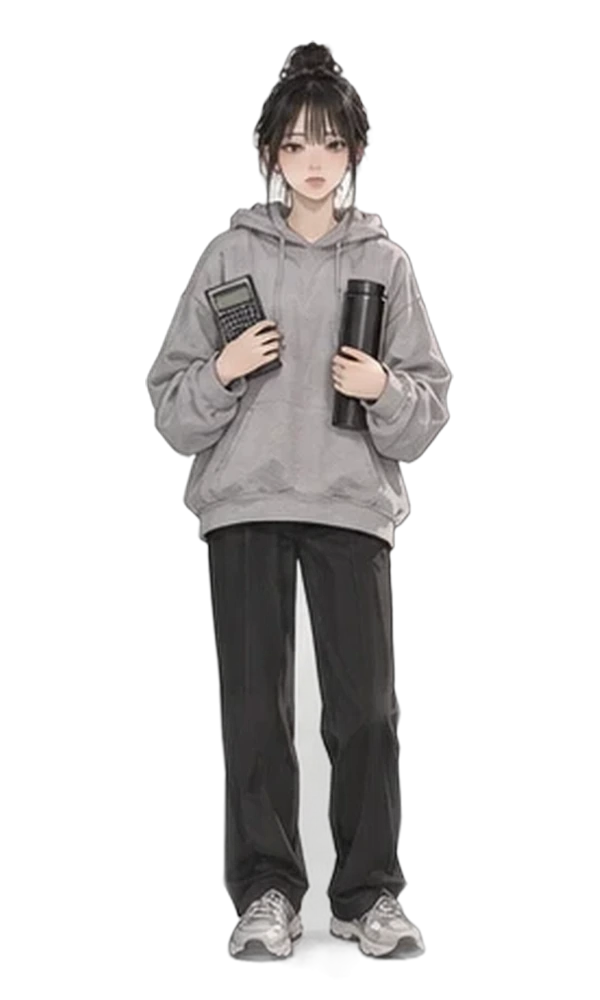
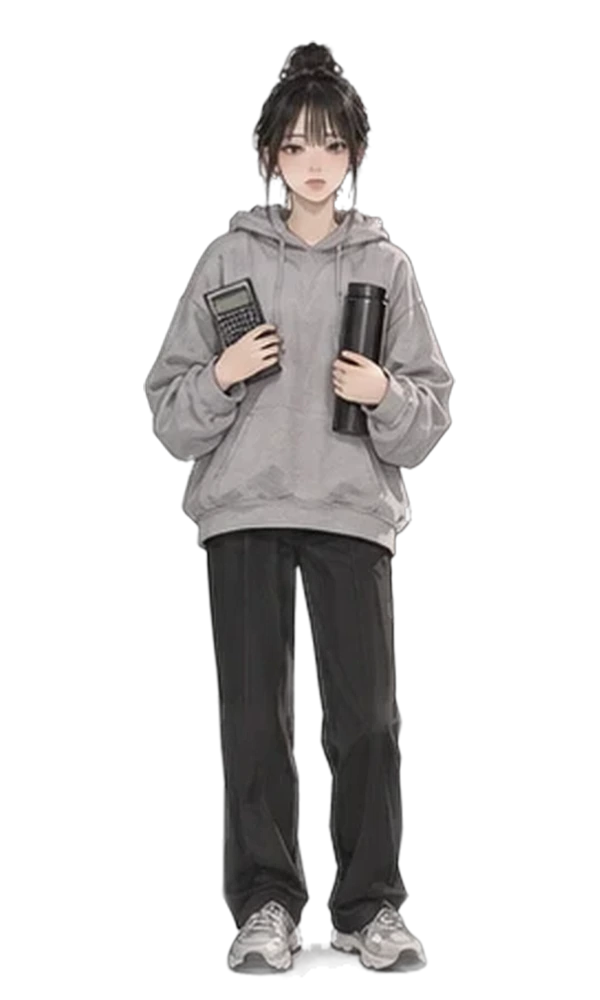
曾品妤對話立繪重切（BB-B D59 退件）：兩腿中間的灰底、耳朵高度的白邊、脖子兩側的白點拿掉（cut_reference_portraits.py 的 key_holes，只對 pinyu）；深色底＋紅底新舊對照
Claude-Session: https://claude.ai/code/session_01GV1WG3UeT2DhuDpxeWJsvD

diff --git a/tools/portraits/cut_reference_portraits.py b/tools/portraits/cut_reference_portraits.py
@@ -46,6 +46,37 @@ SRC = {
     'yule': ('R:yule.webp', (18, 368, 180, 810)),
 }
 CW, CH, TOP, FILL = 600, 1000, 0.04, 0.94
+HOLES = {'pinyu'}                                                     # BB-B 2026-10-16 D59 退件：曾品妤耳朵高度的白邊、兩腿中間的灰底
+
+
+def key_holes(c0, al, bgc, shoe=0.92):
+    """把「接近背景色的中性淺色」連成一片的地方挖掉（不管遮罩怎麼說）；旁邊 3 px 重算半透明：
+    中性的像素照亮度在「背景」和「附近最暗的人物顏色（褲子、頭髮）」之間的位置給 alpha（不然邊緣留一圈白、而且放大後鋸齒）；
+    有顏色的（臉、手、暖色皮膚）不動。鞋子（最下面 8%）有白色的部分，不碰。"""
+    d = np.abs(c0 - bgc).max(2); sat = c0.max(2) - c0.min(2); L = c0.mean(2); bL = float(bgc.mean()); H = c0.shape[0]
+    bgl = (d < 22) & (sat < 14) & (al > 0.02)
+    lab, n = ndimage.label(bgl); keep = np.zeros_like(bgl)
+    ys = np.nonzero(al > 0.5)[0]; foot = ys.max() if len(ys) else H; top = ys.min() if len(ys) else 0
+    for i, sl in enumerate(ndimage.find_objects(lab), 1):
+        if sl is None: continue
+        if int((lab[sl] == i).sum()) >= 6 and sl[0].start < top + shoe * (foot - top): keep |= lab == i
+    # 頭的高度（上面 17%，到下巴、帽兜以上）：髮絲和脖子之間的背景被皮膚染成偏暖的淺色（飽和度 13～25），第一輪抓不到——只拿「碰到已挖掉的洞或外面」的那幾塊
+    # （淺灰帽兜的亮面飽和度 ≤12，不算；不然帽兜的邊會被咬掉）
+    head = np.zeros_like(bgl); head[top:top + int(0.17 * (foot - top))] = True
+    warm = head & (L > 226) & (sat >= 13) & (sat < 26) & ~keep; out0 = keep | (al < 0.05)
+    wl, _ = ndimage.label(warm); touch = np.unique(wl[ndimage.binary_dilation(out0, iterations=1) & warm]); touch = touch[touch > 0]
+    keep = keep | np.isin(wl, touch)
+    near = ndimage.binary_dilation(keep, iterations=3) & ~keep & (sat < 20)
+    fgL = ndimage.minimum_filter(np.where(keep, 255.0, L), size=9)              # 附近最暗的人物顏色
+    a = np.clip((bL - L) / np.maximum(bL - fgL, 30.0), 0, 1)
+    out = np.where(keep, 0.0, al); out = np.where(near, np.minimum(out, a), out)
+    # 最後：頭的高度、貼著透明區 2 px 以內、又亮又沒顏色的零星像素（髮絲間殘留的白點）也拿掉；皮膚飽和度 ≥25，不受影響
+    # 脖子兩側（到 20%）的白點是被皮膚染成微暖的背景（R−B 8～26）；帽兜是中性灰（R−B < 8）、皮膚 R−B ≥ 30，都不受影響
+    rb = c0[..., 0] - c0[..., 2]; neck = np.zeros_like(bgl); neck[top:top + int(0.20 * (foot - top))] = True
+    edge = ndimage.binary_dilation(out < 0.1, iterations=2) & (out >= 0.1) & (L > 212) & ((head & (sat < 22)) | (neck & (rb >= 8) & (rb < 27) & (sat < 27)))
+    out = np.where(edge, 0.0, out)
+    zone = ndimage.binary_dilation(keep | edge, iterations=4)
+    return np.where(zone, ndimage.gaussian_filter(out, 0.5), out)
 
 
 def main():
@@ -68,6 +99,8 @@ def main():
             m = al > 0.5; band = m & ~ndimage.binary_erosion(m, iterations=4)
             near_bg = np.abs(c0 - bgc).max(2) < 26
             al = np.where(band & near_bg, 0.0, al); al = ndimage.gaussian_filter(al, 0.6) * (al > 0)
+        if gid in HOLES:                                              # 人物裡面露出來的背景（兩腿中間、側邊髮絲和脖子之間）：遮罩把它當成人物，放在深色底上是一塊灰、一圈白邊
+            al = key_holes(c0, al, bgc)
         lab, n = ndimage.label(al > 0.25)
         if n > 1:                                                     # 只留最大的一塊（旁邊人物、字、細節格的邊、浮在頭上的線）
             sizes = ndimage.sum(np.ones_like(al), lab, range(1, n + 1)); keep = ndimage.binary_dilation(lab == (1 + int(np.argmax(sizes))), iterations=2); al = al * keep

diff --git a/docs/art-rebuild/second_ai/test_shots/portraits_recut/README.md b/docs/art-rebuild/second_ai/test_shots/portraits_recut/README.md
@@ -1,0 +1,33 @@
+# 對話立繪重切（BB-B D59 退件）｜LAWWW2-B
+
+## 曾品妤 pinyu（2026-10-16）
+
+BB-B 退件的兩處（`8fbe1e1a` 那一版）：
+- ① 臉兩側、耳朵高度的頭髮外緣有一圈白邊，看起來像白色髮絲；
+- ② 兩腿中間膝蓋到腳踝留著一塊半透明的灰底。
+
+### 原因
+
+isnet-anime 的遮罩把「人物裡面露出來的背景」也當成人物，包括兩腿中間，以及側邊髮絲和脖子之間。
+
+### 改法
+
+`tools/portraits/cut_reference_portraits.py` 加了 `key_holes()`，只對 `HOLES = {'pinyu'}` 套用；其他人的立繪不重切、不變。
+
+1. **挖洞**：和背景色接近、又沒有顏色的淺色區塊（連成一片）直接挖掉，不管遮罩怎麼判。鞋子在最下面 8%，有白色的部分，不碰。
+2. **重算洞邊的半透明**：洞旁邊 3 px 照亮度重算 alpha，算的是這個像素落在「背景」和「附近最暗的人物顏色」之間的哪裡。舊做法會留一圈白，放大 2.2 倍後還有鋸齒。
+3. **頭部高度補挖（上面 17%）**：髮絲和脖子之間的背景被皮膚染成微暖的淺色；只要這種顏色貼著已經挖掉的洞，也挖掉。
+4. **脖子兩側殘留的白點**：
+   - 範圍是貼著透明區 2 px 以內、到全身高的 20%；
+   - 依 R−B 分辨：帽兜是中性灰，R−B 小於 8；皮膚的 R−B 在 30 以上；只挖介於中間、帶一點暖色的白點，帽兜和皮膚都不動。
+
+### 對照
+
+舊版和新版各放在深色底、紅底上：
+- `pinyu_recut_full.png`：全身＋頭部放大；
+- `pinyu_recut_legs.png`：兩腿中間。
+
+### 還有的缺點
+
+- 原圖的全身只有 426 px 高，放大 2.2 倍，邊緣看得出一點階梯。
+- 脖子邊緣有 1 px 的淡色，這是原圖頸部的亮邊。
